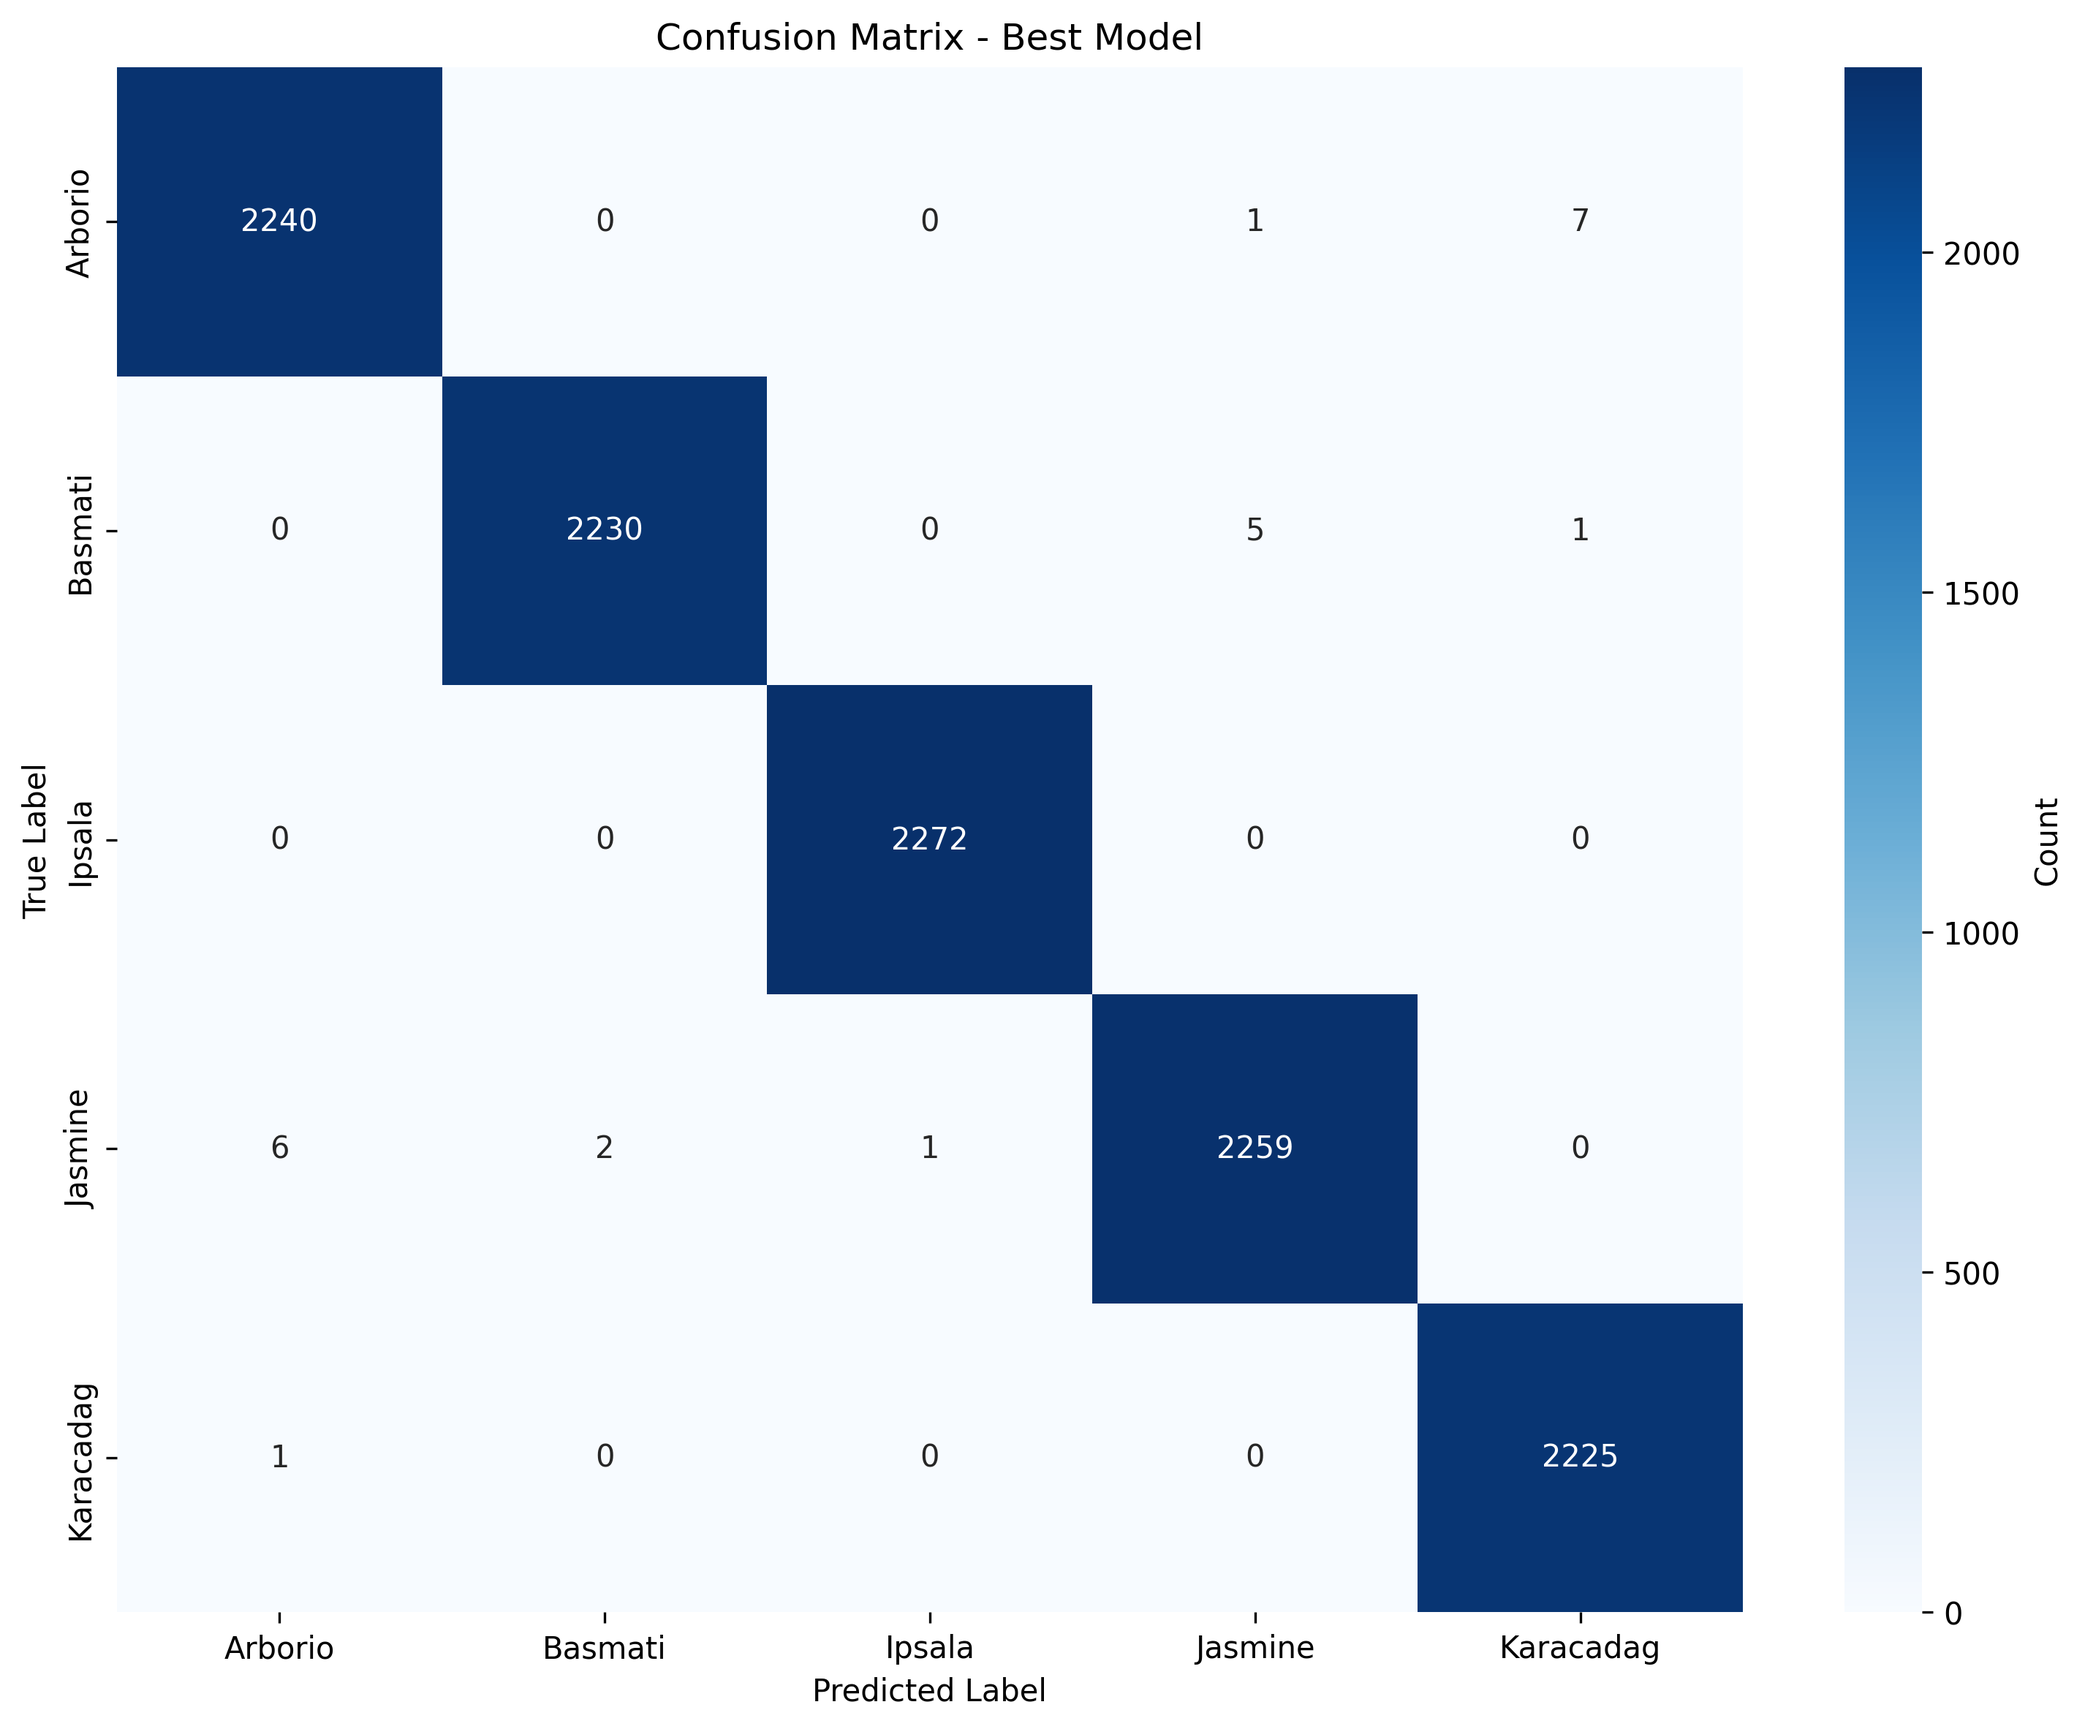
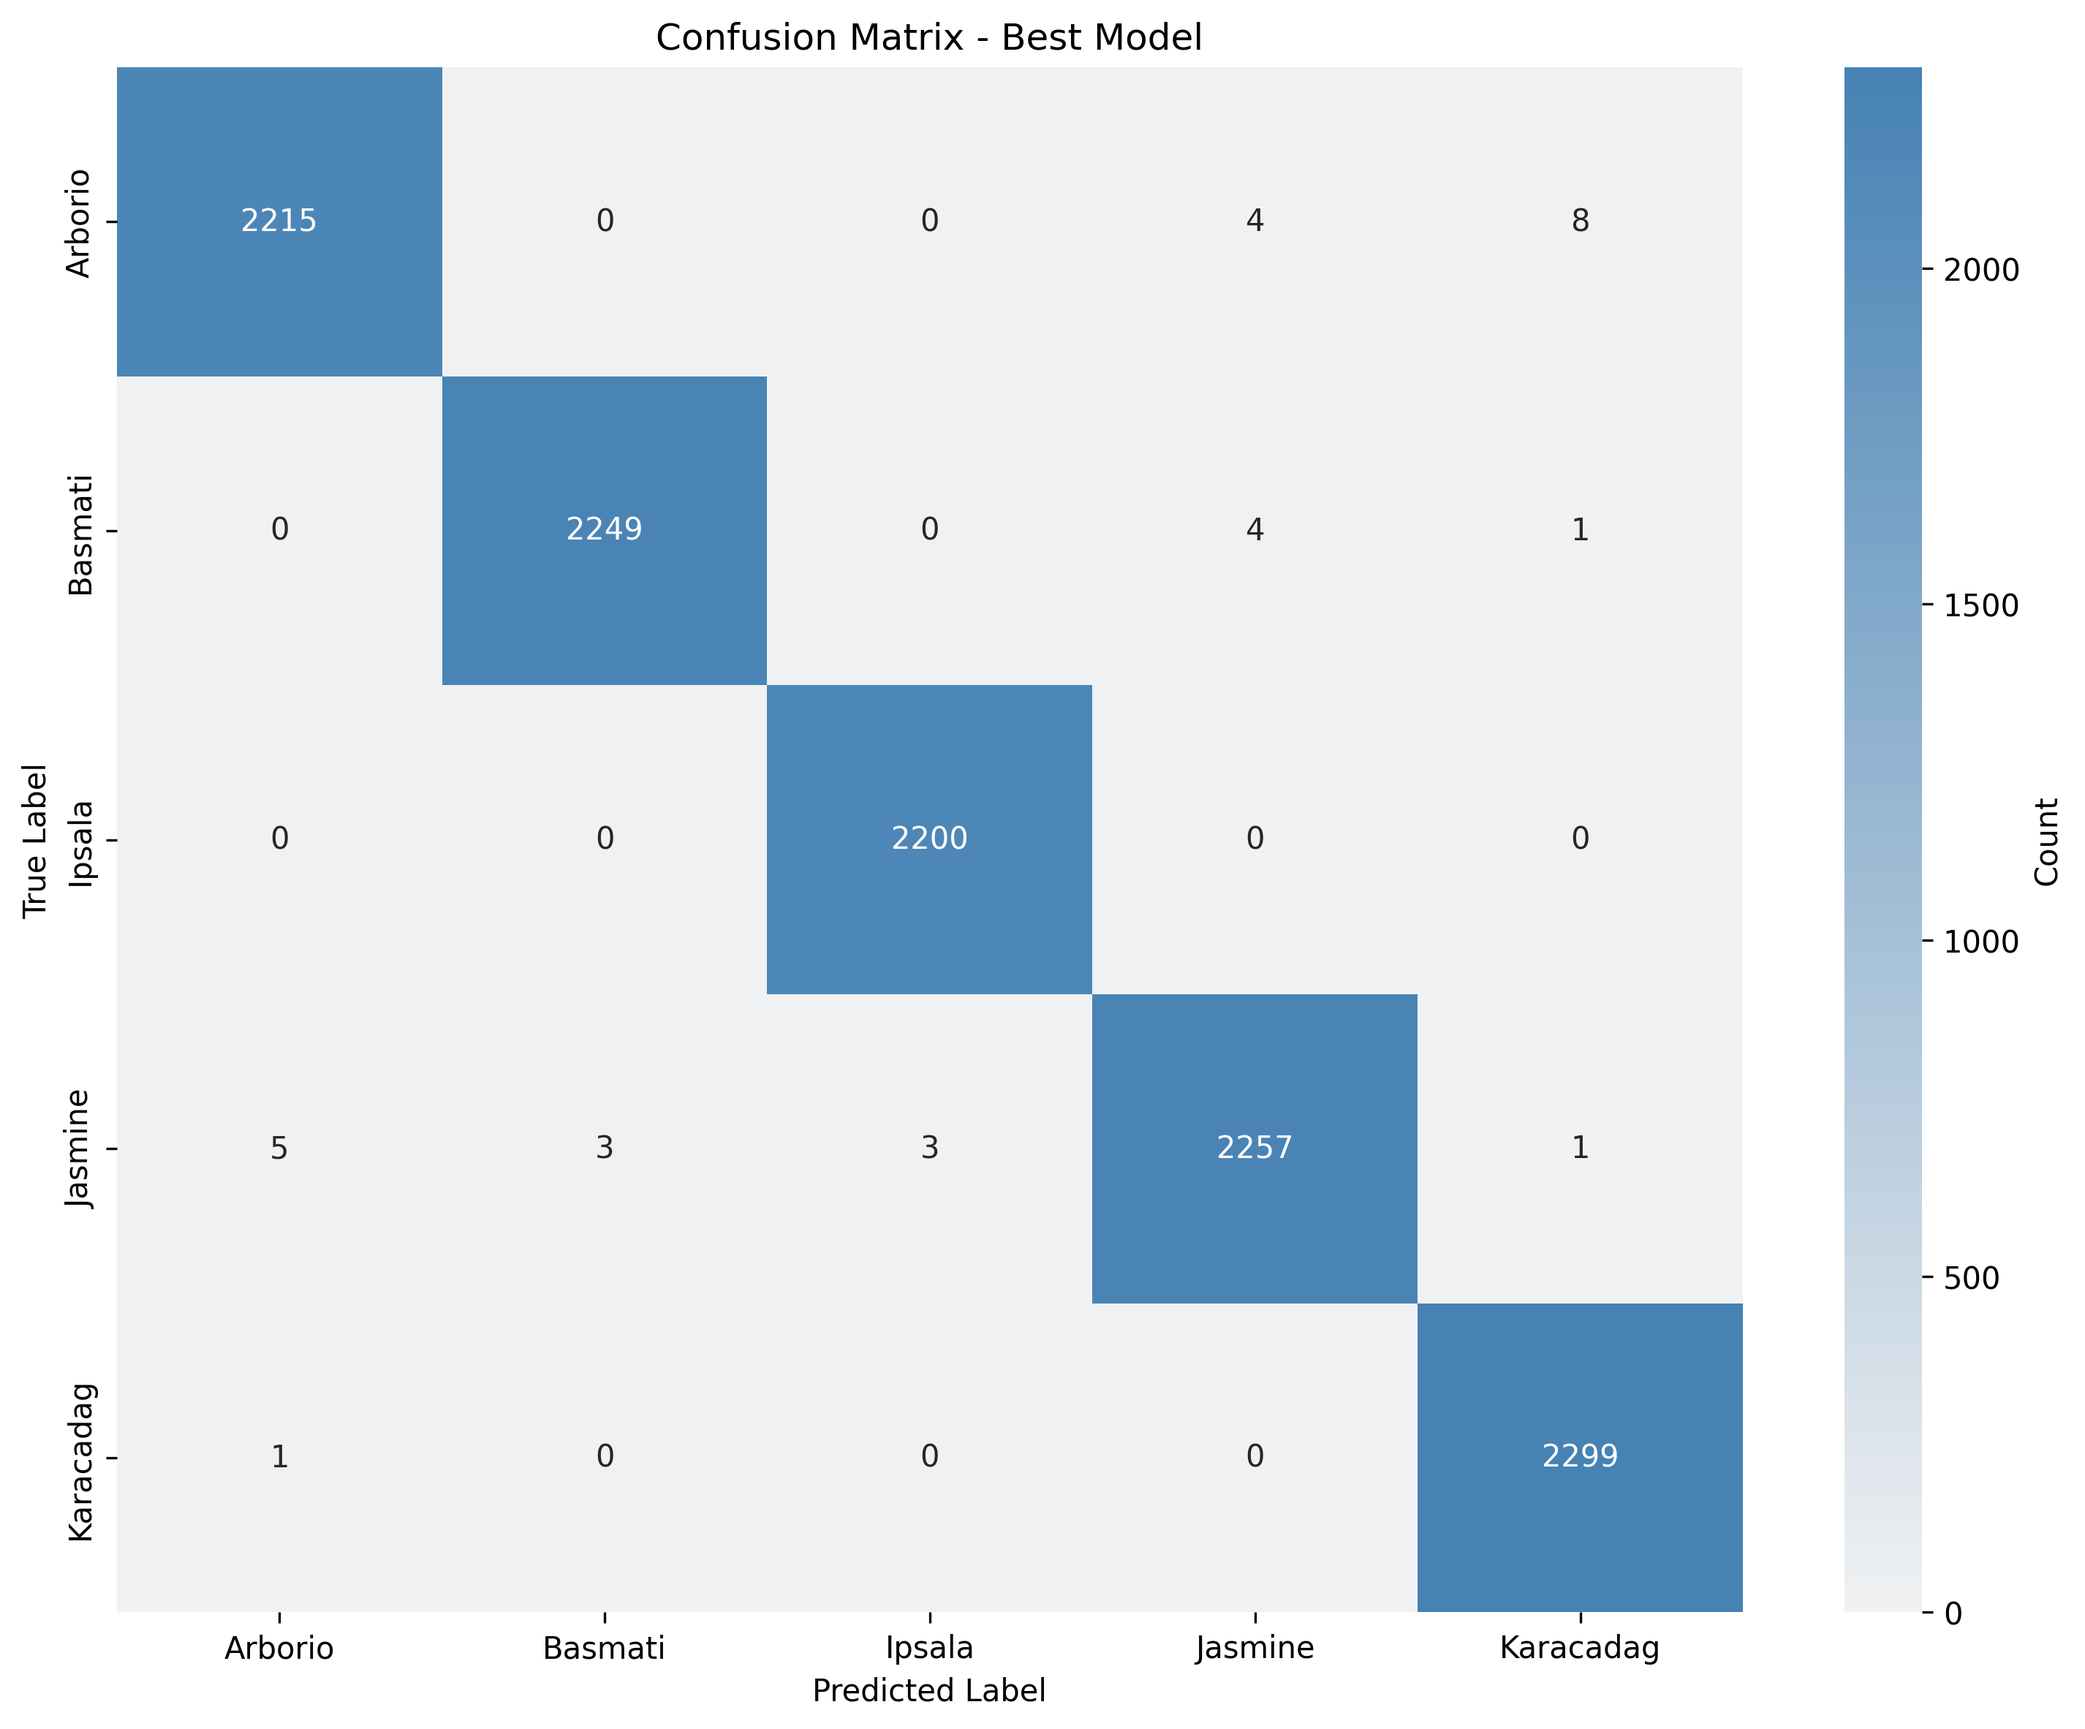
Complete CNN Baseline

Changed region(s): [[0.0312, 0.0309, 0.8426, 0.9569], [0.8738, 0.0309, 0.9674, 0.5865], [0.9362, 0.7099, 0.9674, 0.7408]]

diff --git a/src/Training_curves.py b/src/Training_curves.py
@@ -1,0 +1,147 @@
+import json
+import matplotlib.pyplot as plt
+from pathlib import Path
+import numpy as np
+import seaborn as sns
+
+# Load training history
+experiments_dir = Path(__file__).parent.parent / "Experiments"
+history_path = experiments_dir / "training_history.json"
+
+# Check if training history exists
+if not history_path.exists():
+    print(f"⚠ Training history not found at: {history_path}")
+    print("\nOptions:")
+    print("1. Generate sample/template training data")
+    print("2. Create training_history.json manually")
+    print("\nCreating sample data for demonstration...\n")
+    
+    # Create sample training data
+    num_epochs = 30
+    # Simulated training loss (decreasing trend)
+    epoch_losses = [0.5 - (0.45 * (i / num_epochs)) + np.random.normal(0, 0.02) for i in range(num_epochs)]
+    epoch_losses = [max(0.05, loss) for loss in epoch_losses]  # Ensure positive
+    
+    # Simulated validation accuracy (increasing trend)
+    val_accuracies = [55 + (35 * (i / num_epochs)) + np.random.normal(0, 1.5) for i in range(num_epochs)]
+    val_accuracies = [min(100, max(50, acc)) for acc in val_accuracies]  # Keep between 50-100
+    
+    training_history = {
+        "epoch_losses": epoch_losses,
+        "val_accuracies": val_accuracies,
+        "num_epochs": num_epochs
+    }
+    
+    print("✓ Sample training data generated")
+    print("  Note: This is sample data. To use your actual training metrics,")
+    print(f"  re-run Train.py or manually create {history_path}\n")
+else:
+    # Load the history
+    with open(history_path, 'r') as f:
+        training_history = json.load(f)
+    print(f"✓ Training history loaded from: {history_path}\n")
+
+epoch_losses = training_history['epoch_losses']
+val_accuracies = training_history['val_accuracies']
+num_epochs = training_history['num_epochs']
+
+# Create epochs array
+epochs = np.arange(1, num_epochs + 1)
+
+# Create figure with two subplots
+fig, (ax1, ax2) = plt.subplots(1, 2, figsize=(14, 5))
+
+# Define the light pastel blue color palette
+colors = sns.light_palette("steelblue", 2)
+
+# Plot training loss
+ax1.plot(epochs, epoch_losses, color=colors[1], linewidth=2.5, marker='o', markersize=4, label='Training Loss')
+ax1.set_xlabel('Epoch', fontsize=12, fontweight='bold')
+ax1.set_ylabel('Loss', fontsize=12, fontweight='bold')
+ax1.set_title('Training Loss Over Epochs', fontsize=14, fontweight='bold')
+ax1.grid(True, alpha=0.3, linestyle='--')
+ax1.legend(fontsize=11)
+
+# Add background color
+ax1.set_facecolor(colors[0])
+fig.patch.set_facecolor('white')
+
+# Plot validation accuracy
+ax2.plot(epochs, val_accuracies, color=colors[1], linewidth=2.5, marker='o', markersize=4, label='Validation Accuracy')
+ax2.set_xlabel('Epoch', fontsize=12, fontweight='bold')
+ax2.set_ylabel('Accuracy (%)', fontsize=12, fontweight='bold')
+ax2.set_title('Validation Accuracy Over Epochs', fontsize=14, fontweight='bold')
+ax2.grid(True, alpha=0.3, linestyle='--')
+ax2.legend(fontsize=11)
+
+# Add background color
+ax2.set_facecolor(colors[0])
+
+# Add max accuracy annotation
+max_acc = max(val_accuracies)
+max_epoch = val_accuracies.index(max_acc) + 1
+ax2.annotate(f'Max: {max_acc:.2f}%\n(Epoch {max_epoch})', 
+             xy=(max_epoch, max_acc), 
+             xytext=(max_epoch + 2, max_acc - 2),
+             fontsize=10,
+             bbox=dict(boxstyle='round,pad=0.5', facecolor=colors[1], alpha=0.7),
+             arrowprops=dict(arrowstyle='->', color=colors[1], lw=1.5))
+
+plt.tight_layout()
+
+# Save the figure
+results_dir = Path(__file__).parent.parent / "Results"
+results_dir.mkdir(exist_ok=True)
+
+output_path = results_dir / "training_curves.png"
+plt.savefig(output_path, dpi=300, bbox_inches='tight')
+print(f"✓ Training curves saved to: {output_path}")
+
+# Also create a combined view
+fig2, ax = plt.subplots(figsize=(12, 6))
+
+# Create secondary y-axis
+ax2_twin = ax.twinx()
+
+# Plot loss on primary axis
+line1 = ax.plot(epochs, epoch_losses, color=colors[1], linewidth=2.5, marker='o', markersize=5, label='Training Loss')
+ax.set_xlabel('Epoch', fontsize=12, fontweight='bold')
+ax.set_ylabel('Loss', fontsize=12, fontweight='bold', color=colors[1])
+ax.tick_params(axis='y', labelcolor=colors[1])
+
+# Plot accuracy on secondary axis
+line2 = ax2_twin.plot(epochs, val_accuracies, color='#A8D8EA', linewidth=2.5, marker='s', markersize=5, label='Validation Accuracy')
+ax2_twin.set_ylabel('Accuracy (%)', fontsize=12, fontweight='bold', color='#A8D8EA')
+ax2_twin.tick_params(axis='y', labelcolor='#A8D8EA')
+
+ax.set_title('Training Loss and Validation Accuracy', fontsize=14, fontweight='bold')
+ax.grid(True, alpha=0.3, linestyle='--')
+ax.set_facecolor(colors[0])
+fig2.patch.set_facecolor('white')
+
+# Combine legends
+lines = line1 + line2
+labels = [l.get_label() for l in lines]
+ax.legend(lines, labels, loc='upper left', fontsize=11)
+
+plt.tight_layout()
+
+# Save the combined figure
+output_path2 = results_dir / "training_curves_combined.png"
+plt.savefig(output_path2, dpi=300, bbox_inches='tight')
+print(f"✓ Combined training curves saved to: {output_path2}")
+
+# Print summary statistics
+print("\n" + "="*60)
+print("Training Summary")
+print("="*60)
+print(f"Total Epochs: {num_epochs}")
+print(f"Initial Loss: {epoch_losses[0]:.4f}")
+print(f"Final Loss: {epoch_losses[-1]:.4f}")
+print(f"Loss Reduction: {epoch_losses[0] - epoch_losses[-1]:.4f}")
+print(f"Initial Accuracy: {val_accuracies[0]:.2f}%")
+print(f"Final Accuracy: {val_accuracies[-1]:.2f}%")
+print(f"Best Accuracy: {max(val_accuracies):.2f}% (Epoch {val_accuracies.index(max(val_accuracies)) + 1})")
+print("="*60)
+
+plt.show()

diff --git a/src/Evaluate.py b/src/Evaluate.py
@@ -5,7 +5,7 @@ from Dataset_loader import test_loader
 from Models import RiceCNN
 import numpy as np
 import matplotlib.pyplot as plt
-from sklearn.metrics import confusion_matrix
+from sklearn.metrics import confusion_matrix, classification_report
 import seaborn as sns
 
 # Define the device — prefer Apple Silicon GPU (MPS) over CPU
@@ -48,7 +48,7 @@ def plot_confusion_matrix(predictions, labels, model_name):
     
     # Create figure
     plt.figure(figsize=(10, 8))
-    sns.heatmap(cm, annot=True, fmt='d', cmap='Blues', xticklabels=class_names, yticklabels=class_names, cbar_kws={'label': 'Count'})
+    sns.heatmap(cm, annot=True, fmt='d', cmap=sns.light_palette("steelblue", as_cmap=True), xticklabels=class_names, yticklabels=class_names, cbar_kws={'label': 'Count'})
     plt.title(f'Confusion Matrix - {model_name}')
     plt.ylabel('True Label')
     plt.xlabel('Predicted Label')
@@ -65,6 +65,34 @@ def plot_confusion_matrix(predictions, labels, model_name):
     plt.close()
     
     return output_path
+
+
+def generate_classification_report(predictions, labels, model_name):
+    """Generate and save classification report with precision, recall, and f1-score"""
+    # Get class names
+    class_names = sorted(['Arborio', 'Basmati', 'Ipsala', 'Jasmine', 'Karacadag'])
+    
+    # Generate classification report
+    report = classification_report(labels, predictions, target_names=class_names, digits=4)
+    
+    print(f"\n{'='*60}")
+    print(f"Classification Report - {model_name}")
+    print(f"{'='*60}")
+    print(report)
+    
+    # Save report to file
+    results_dir = Path(__file__).parent.parent / "Results"
+    results_dir.mkdir(exist_ok=True)
+    
+    report_path = results_dir / f"classification_report_{model_name.replace(' ', '_').lower()}.txt"
+    with open(report_path, 'w') as f:
+        f.write(f"Classification Report - {model_name}\n")
+        f.write(f"{'='*60}\n")
+        f.write(report)
+    
+    print(f"✓ Classification report saved to: {report_path}")
+    
+    return report_path
 
 
 def evaluate_model(model_path, model_name):
@@ -122,11 +150,13 @@ if best_model_path.exists():
     best_accuracy, best_predictions, best_labels = evaluate_model(best_model_path, "Best Model")
     if best_predictions is not None:
         plot_confusion_matrix(best_predictions, best_labels, "Best Model")
+        generate_classification_report(best_predictions, best_labels, "Best Model")
 
 # Evaluate baseline model
 if baseline_model_path:
     baseline_accuracy, baseline_predictions, baseline_labels = evaluate_model(baseline_model_path, "Baseline Model")
     if baseline_predictions is not None:
         plot_confusion_matrix(baseline_predictions, baseline_labels, "Baseline Model")
+        generate_classification_report(baseline_predictions, baseline_labels, "Baseline Model")
 
 print("="*60)
